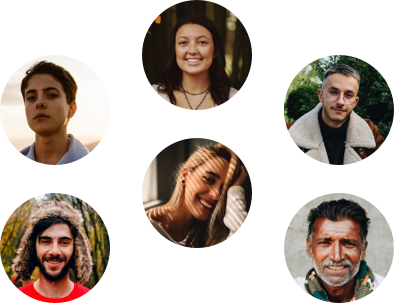
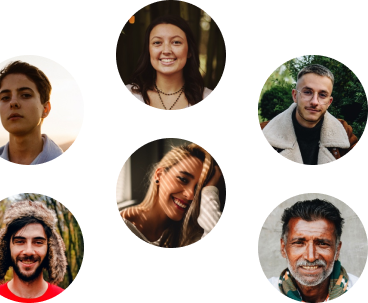
desktop version done

diff --git a/style.css b/style.css
@@ -275,29 +275,107 @@ button {
 }
 
 @media only screen and (min-width: 1440px) {
+  footer {
+    text-align: unset;
+  }
+
   .upper-section {
     display: grid;
     grid-template-columns: 1fr 1fr 1fr;
+    grid-template-rows: 1fr;
+    align-items: center;
     padding: 4rem 0 4rem 0;
+    height: 488px;
   }
 
   .image-cluster-contaiener {
     grid-column: 1/4;
-    grid-row: 1/3;
+    grid-row: 1/2;
     justify-content: space-between;
     gap: unset;
-    height: 360px;
+    height: 100%;
+  }
+
+  .img-cluster-right {
+    align-self: flex-end;
   }
 
   .cluster-heading {
     grid-column: 2/3;
     grid-row: 1/2;
-    height: 360px;
+    align-self: baseline;
+    margin: 0;
+  }
+
+  .cluster-heading-header {
+    font-size: 64px;
+    padding: 0 20px;
+    margin: 23px 0 32px 0;
+  }
+
+  .cluster-heading-text {
+    font-size: 18px;
+    padding: 0 20px;
   }
 
   .button-group {
     grid-column: 2/3;
     grid-row: 1/2;
-    height: 360px;
+    align-self: last baseline;
+    margin-bottom: 23px;
+  }
+
+  .four-image-container {
+    gap: 32px;
+  }
+
+  .four-image-section {
+    padding: 56px 0 72px 0;
+  }
+
+  .image-picture-box {
+    width: 256px;
+    height: 256px;
+  }
+
+  .four-images {
+    border-radius: 8px;
+  }
+
+  .four-images-heading-text {
+    font-size: 16px;
+  }
+
+  .four-images-heading {
+    font-size: 40px;
+  }
+
+  .text-below-heading {
+    font-size: 18px;
+    width: 544px;
+  }
+
+  .footer-section {
+    background-image: url(./assets/desktop/image-footer.png);
+    flex-direction: row;
+    justify-content: space-between;
+    align-items: unset;
+    gap: unset;
+    padding: 112px 160px;
+  }
+
+  .footer-header {
+    font-size: 40px;
+    width: 445px;
+  }
+
+  .footer-text {
+    font-size: 18px;
+    width: 350px;
+    padding: 0;
+  }
+
+  .footer-btn {
+    margin-left: 95px;
   }
 }
